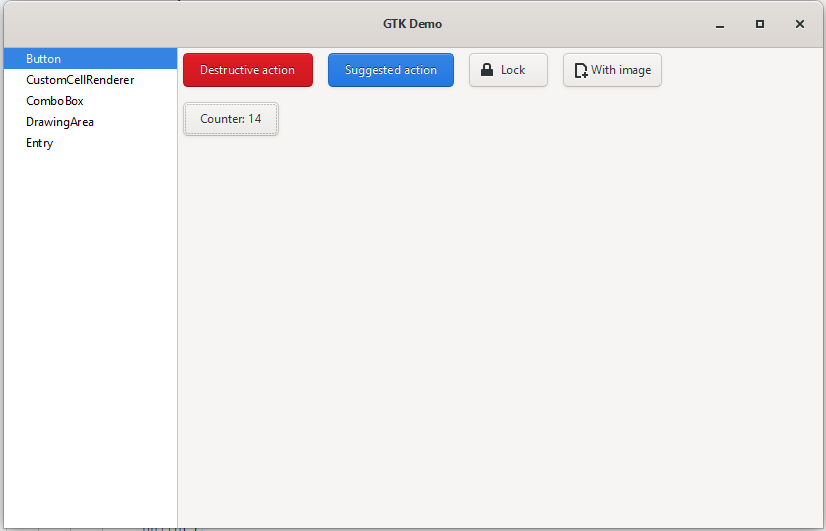
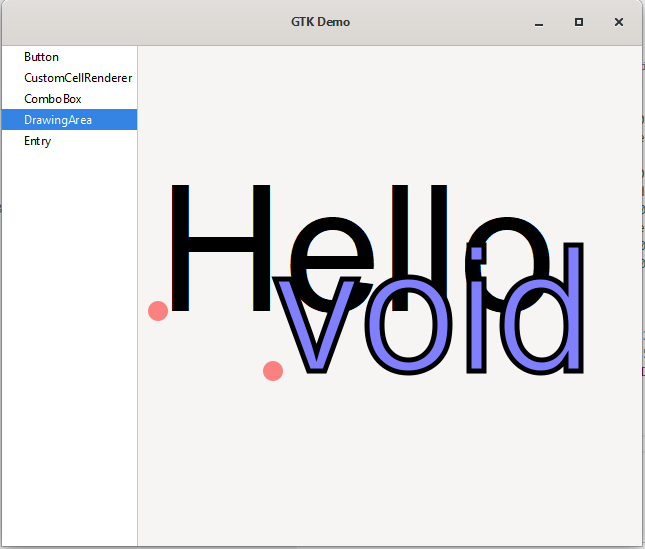
Refactored

diff --git a/src/entry_ui.rs b/src/entry_ui.rs
@@ -1,0 +1,82 @@
+use gtk::{
+    prelude::{ContainerExt, EntryExt},
+    EditableSignals, Entry,
+};
+
+const MARGIN: i32 = 5;
+pub struct EntryBox {
+    pub _box: gtk::Box,
+}
+
+impl EntryBox {
+    pub fn new() -> Self {
+        let _box = gtk::Box::new(gtk::Orientation::Vertical, 5);
+
+        let simple_entry = Entry::builder()
+            .margin(MARGIN)
+            .text("Initial Text")
+            .tooltip_text("Simple entry")
+            .build();
+
+        let righ_align_entry = Entry::builder()
+            .tooltip_text("Right aligned text entry")
+            .margin(MARGIN)
+            .xalign(1f32)
+            .text("Text is right aligned")
+            .build();
+
+        let limited_entry = Entry::builder()
+            .tooltip_text("Limited 3 chars entry")
+            .margin(5)
+            .max_length(3)
+            .text("123")
+            .build();
+
+        let placeholder_entry = Entry::builder()
+            .margin(MARGIN)
+            .tooltip_text("Placeholder entry")
+            .placeholder_text("Please fill with information")
+            .build();
+
+        let invisible_char_entry = Entry::builder()
+            .margin(MARGIN)
+            .text("Invisible text entry")
+            .visibility(false)
+            .tooltip_text("Invisible char entry")
+            .invisible_char('\u{2022}' as u32)
+            .build();
+
+        let custom_action_entry = Entry::builder()
+            .margin(MARGIN)
+            .text("Press icon to find something")
+            .secondary_icon_name("edit-find-symbolic")
+            .build();
+
+        custom_action_entry.connect_icon_release(move |_, _, _| {
+            println!("icon find pressed");
+        });
+
+        let progress_entry = Entry::builder()
+            .tooltip_text("A entry with 20 char max limit and a progress counter")
+            .margin(MARGIN)
+            .placeholder_text("Progress entry")
+            .progress_fraction(0f64)
+            .max_length(20)
+            .build();
+
+        progress_entry.connect_changed(move |e| {
+            let progress = e.text().len() as f64 / e.max_length() as f64;
+            e.set_progress_fraction(progress);
+        });
+
+        _box.add(&simple_entry);
+        _box.add(&righ_align_entry);
+        _box.add(&limited_entry);
+        _box.add(&placeholder_entry);
+        _box.add(&invisible_char_entry);
+        _box.add(&custom_action_entry);
+        _box.add(&progress_entry);
+
+        EntryBox { _box }
+    }
+}

diff --git a/src/ui.rs b/src/ui.rs
@@ -1,4 +1,4 @@
-use crate::model::ExampleType;
+use crate::{button_ui_controller::ButtonUiController, button_ui::ButtonBox, model::ExampleType};
 use cascade::cascade;
 use glib::StaticType;
 use gtk::{
@@ -6,7 +6,7 @@ use gtk::{
         CellLayoutExt, ContainerExt, GtkWindowExt, HeaderBarExt, PanedExt, TreeStoreExtManual,
         TreeViewExt, WidgetExt,
     },
-    Application, ApplicationWindow, Button, CellRendererText, HeaderBar, Orientation, Paned,
+    Application, ApplicationWindow, CellRendererText, HeaderBar, Orientation, Paned,
     TreeStore, TreeView, TreeViewColumn,
 };
 
@@ -14,7 +14,6 @@ pub struct Ui {
     pub window: ApplicationWindow,
     pub tree_content: TreeView,
     pub paned: Paned,
-    pub current_widget: Option<gtk::Box>,
 }
 
 impl Ui {
@@ -43,8 +42,6 @@ impl Ui {
             ..set_headers_visible(false);
         };
 
-        let btn1 = Button::with_label("Clique me 2");
-
         let tree_store = TreeStore::new(&[String::static_type()]);
         tree_content.set_model(Some(&tree_store));
         append_text_column(&tree_content);
@@ -53,8 +50,11 @@ impl Ui {
             tree_store.insert_with_values(None, None, &[(0, &format!("{}", i))]);
         }
 
+        let button_ui = ButtonBox::new();
+        ButtonUiController::setup(&button_ui);
+
         paned.pack1(&tree_content, true, false);
-        paned.pack2(&btn1, true, true);
+        paned.pack2(&button_ui._box, true, true);
 
         window.set_titlebar(Some(&header_bar));
         window.add(&paned);
@@ -65,7 +65,6 @@ impl Ui {
             window,
             tree_content,
             paned,
-            current_widget: None,
         }
     }
 }

diff --git a/src/drawing_area_ui.rs b/src/drawing_area_ui.rs
@@ -1,0 +1,45 @@
+use std::f64::consts::PI;
+
+use gtk::{DrawingArea, Inhibit, cairo::{FontSlant, FontWeight}, prelude::{ContainerExt, WidgetExt}};
+
+const MARGIN: i32 = 5;
+pub struct DrawingAreaBox {
+    pub _box: gtk::Box,
+}
+
+impl DrawingAreaBox {
+    pub fn new() -> Self {
+        let _box = gtk::Box::new(gtk::Orientation::Vertical, MARGIN);
+        let area = DrawingArea::builder()
+            .height_request(500)
+            .build();
+
+        area.connect_draw(move |_, cr| {
+            cr.scale(500f64, 500f64);
+
+            cr.select_font_face("Sans", FontSlant::Normal, FontWeight::Normal);
+            cr.set_font_size(0.35);
+
+            cr.move_to(0.04, 0.53);
+            cr.show_text("Hello").expect("Invalid cairo surface state");
+
+            cr.move_to(0.27, 0.65);
+            cr.text_path("void");
+            cr.set_source_rgb(0.5, 0.5, 1.0);
+            cr.fill_preserve().expect("Invalid cairo surface state");
+            cr.set_source_rgb(0.0, 0.0, 0.0);
+            cr.set_line_width(0.01);
+            cr.stroke().expect("Invalid cairo surface state");
+
+            cr.set_source_rgba(1.0, 0.2, 0.2, 0.6);
+            cr.arc(0.04, 0.53, 0.02, 0.0, PI * 2.);
+            cr.arc(0.27, 0.65, 0.02, 0.0, PI * 2.);
+            cr.fill().expect("Invalid cairo surface state");
+
+            Inhibit(false)
+        });
+
+        _box.add(&area);
+        Self { _box }
+    }
+}

diff --git a/src/uicontroller.rs b/src/uicontroller.rs
@@ -2,9 +2,10 @@ use gtk::prelude::{
     ContainerExt, PanedExt, TreeModelExt, TreeSelectionExt, TreeViewExt, WidgetExt,
 };
 
-use crate::buttonui::*;
+use crate::button_ui::*;
 use crate::button_ui_controller::ButtonUiController;
-use crate::entryui::*;
+use crate::drawing_area_ui::DrawingAreaBox;
+use crate::entry_ui::*;
 use crate::{model::ExampleType, ui::Ui};
 
 pub struct UiController {}
@@ -42,7 +43,12 @@ fn on_tree_clicked(ui: &Ui) {
             }
             ExampleType::CustomCellRenderer => {}
             ExampleType::ComboBox => {}
-            ExampleType::DrawingArea => {}
+            ExampleType::DrawingArea => {
+                let drawing_box = DrawingAreaBox::new();
+                let new_widget = &drawing_box._box;
+                paned.pack2(new_widget, true, false);
+                new_widget.show_all();
+            }
             ExampleType::Entry => {
                 let entry_box = EntryBox::new();
                 let new_widget = &entry_box._box;

diff --git a/src/main.rs b/src/main.rs
@@ -1,9 +1,10 @@
-mod buttonui;
+mod button_ui;
 mod button_ui_controller;
-mod entryui;
+mod entry_ui;
 mod model;
 mod ui;
 mod uicontroller;
+mod drawing_area_ui;
 
 use gtk::{
     prelude::{ApplicationExt, ApplicationExtManual},

diff --git a/src/button_ui_controller.rs b/src/button_ui_controller.rs
@@ -2,7 +2,7 @@ use std::{cell::Cell, rc::Rc};
 
 use gtk::prelude::{ButtonExt};
 
-use crate::buttonui::ButtonBox;
+use crate::button_ui::ButtonBox;
 
 pub struct ButtonUiController {}
 
